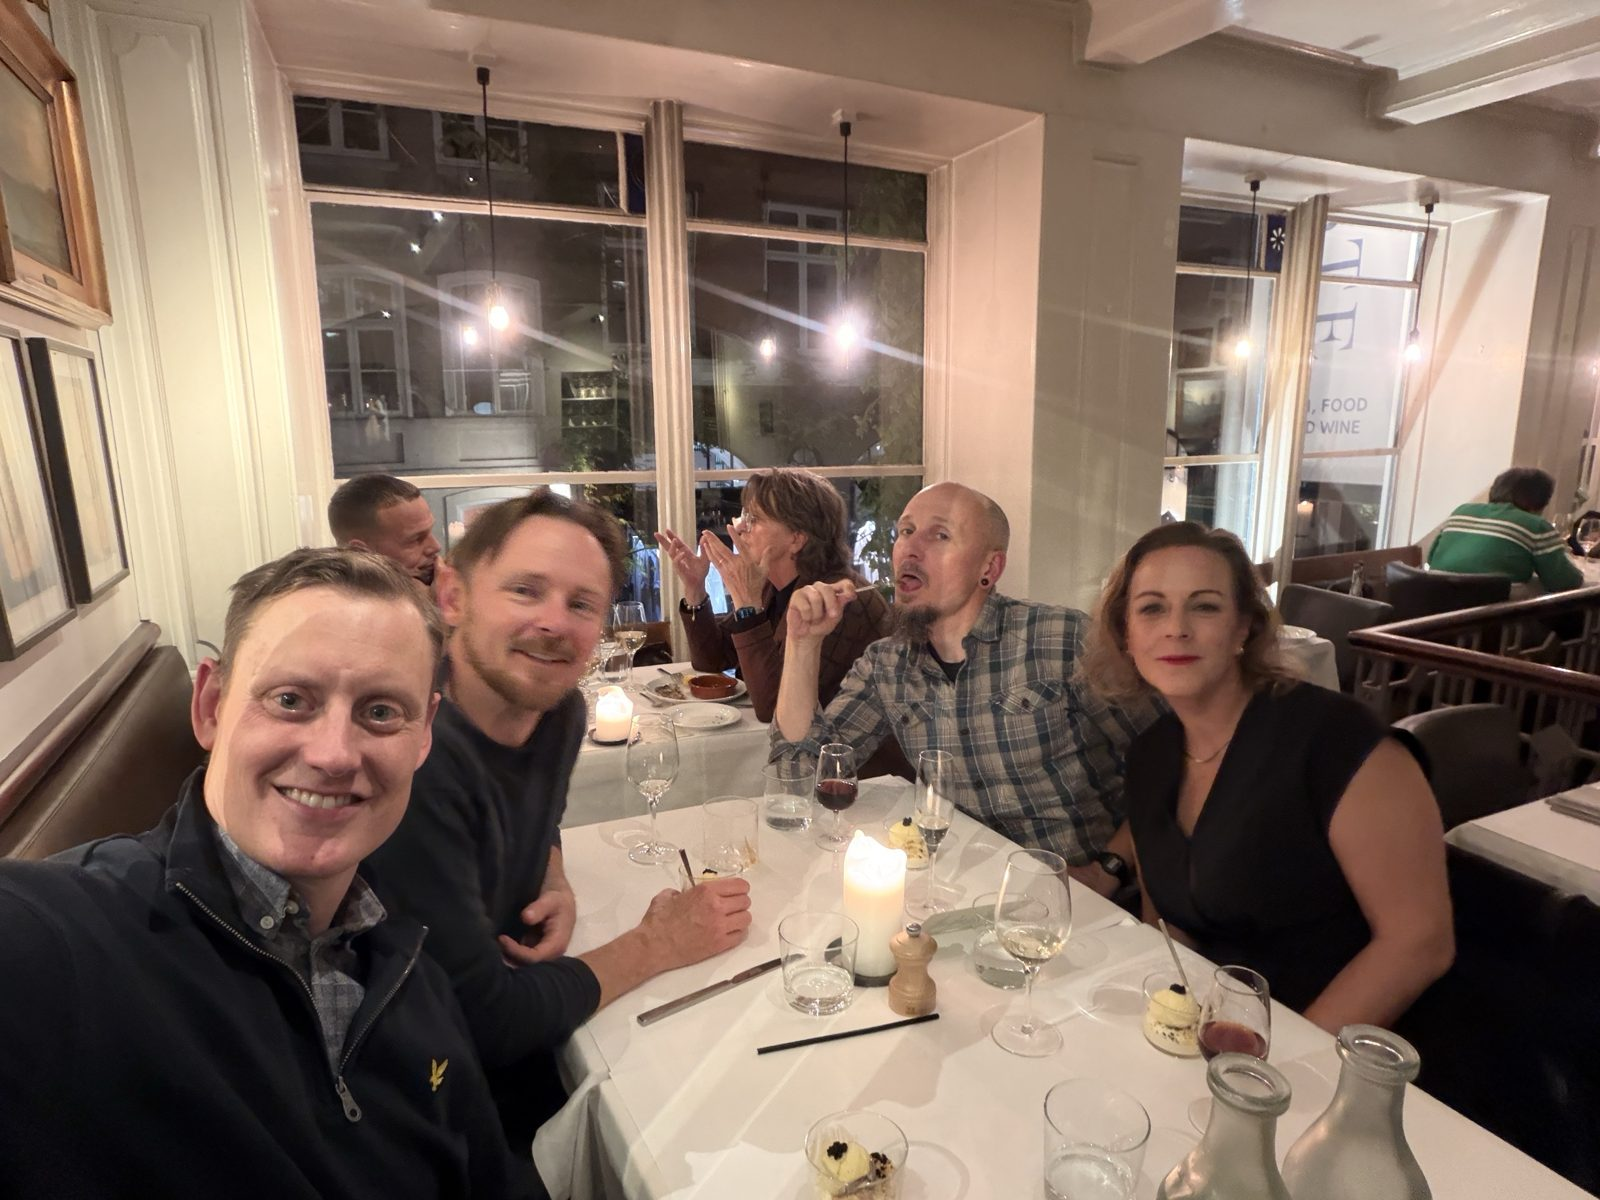
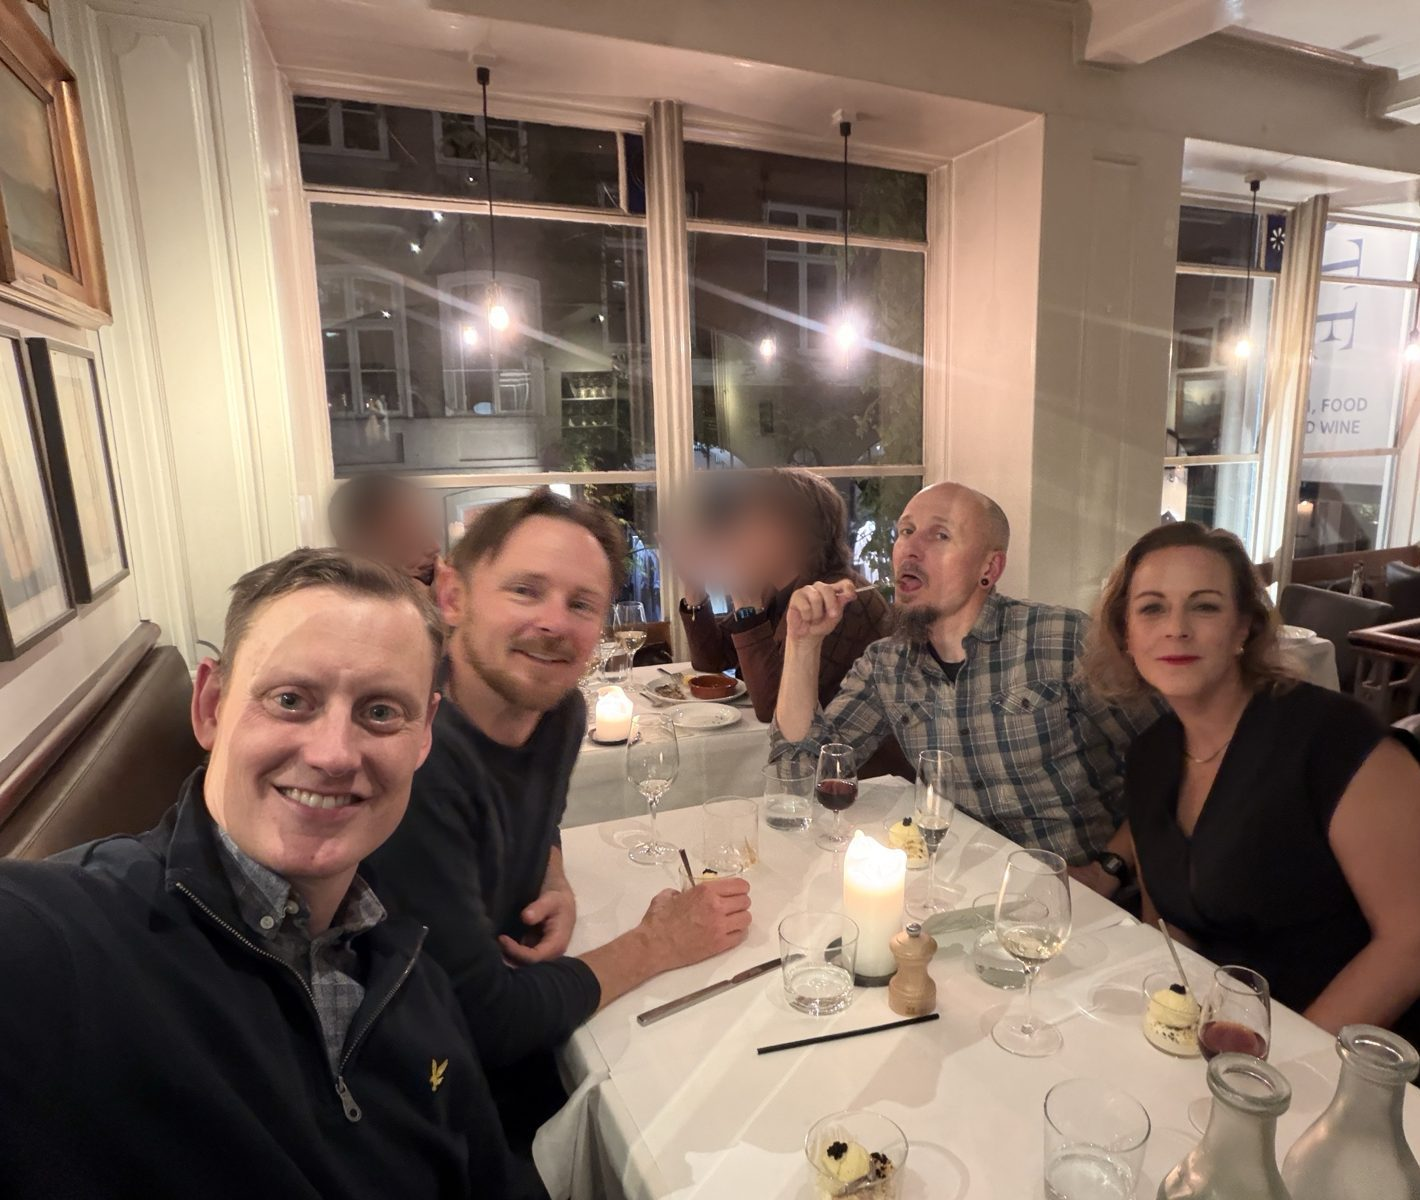
Beskær Zeleste-billedet og slør gæster i baggrunden
Claude-Session: https://claude.ai/code/session_01VVMRWqbH2K9g4UENQbdz2L

diff --git a/en/index.html b/en/index.html
@@ -189,7 +189,7 @@
 
   <dialog class="zeleste" id="zeleste" aria-label="Zeleste">
     <figure class="polaroid">
-      <img src="../assets/zeleste.jpg" alt="Dinner with friends at Zeleste" width="1600" height="1200" loading="lazy">
+      <img src="../assets/zeleste.jpg" alt="Dinner with friends at Zeleste" width="1420" height="1200" loading="lazy">
       <figcaption>Zeleste <span>✦</span> København</figcaption>
     </figure>
     <form method="dialog"><button class="zeleste-close" aria-label="Close">×</button></form>

diff --git a/index.html b/index.html
@@ -189,7 +189,7 @@
 
   <dialog class="zeleste" id="zeleste" aria-label="Zeleste">
     <figure class="polaroid">
-      <img src="assets/zeleste.jpg" alt="Middag med venner på Zeleste" width="1600" height="1200" loading="lazy">
+      <img src="assets/zeleste.jpg" alt="Middag med venner på Zeleste" width="1420" height="1200" loading="lazy">
       <figcaption>Zeleste <span>✦</span> København</figcaption>
     </figure>
     <form method="dialog"><button class="zeleste-close" aria-label="Luk">×</button></form>
